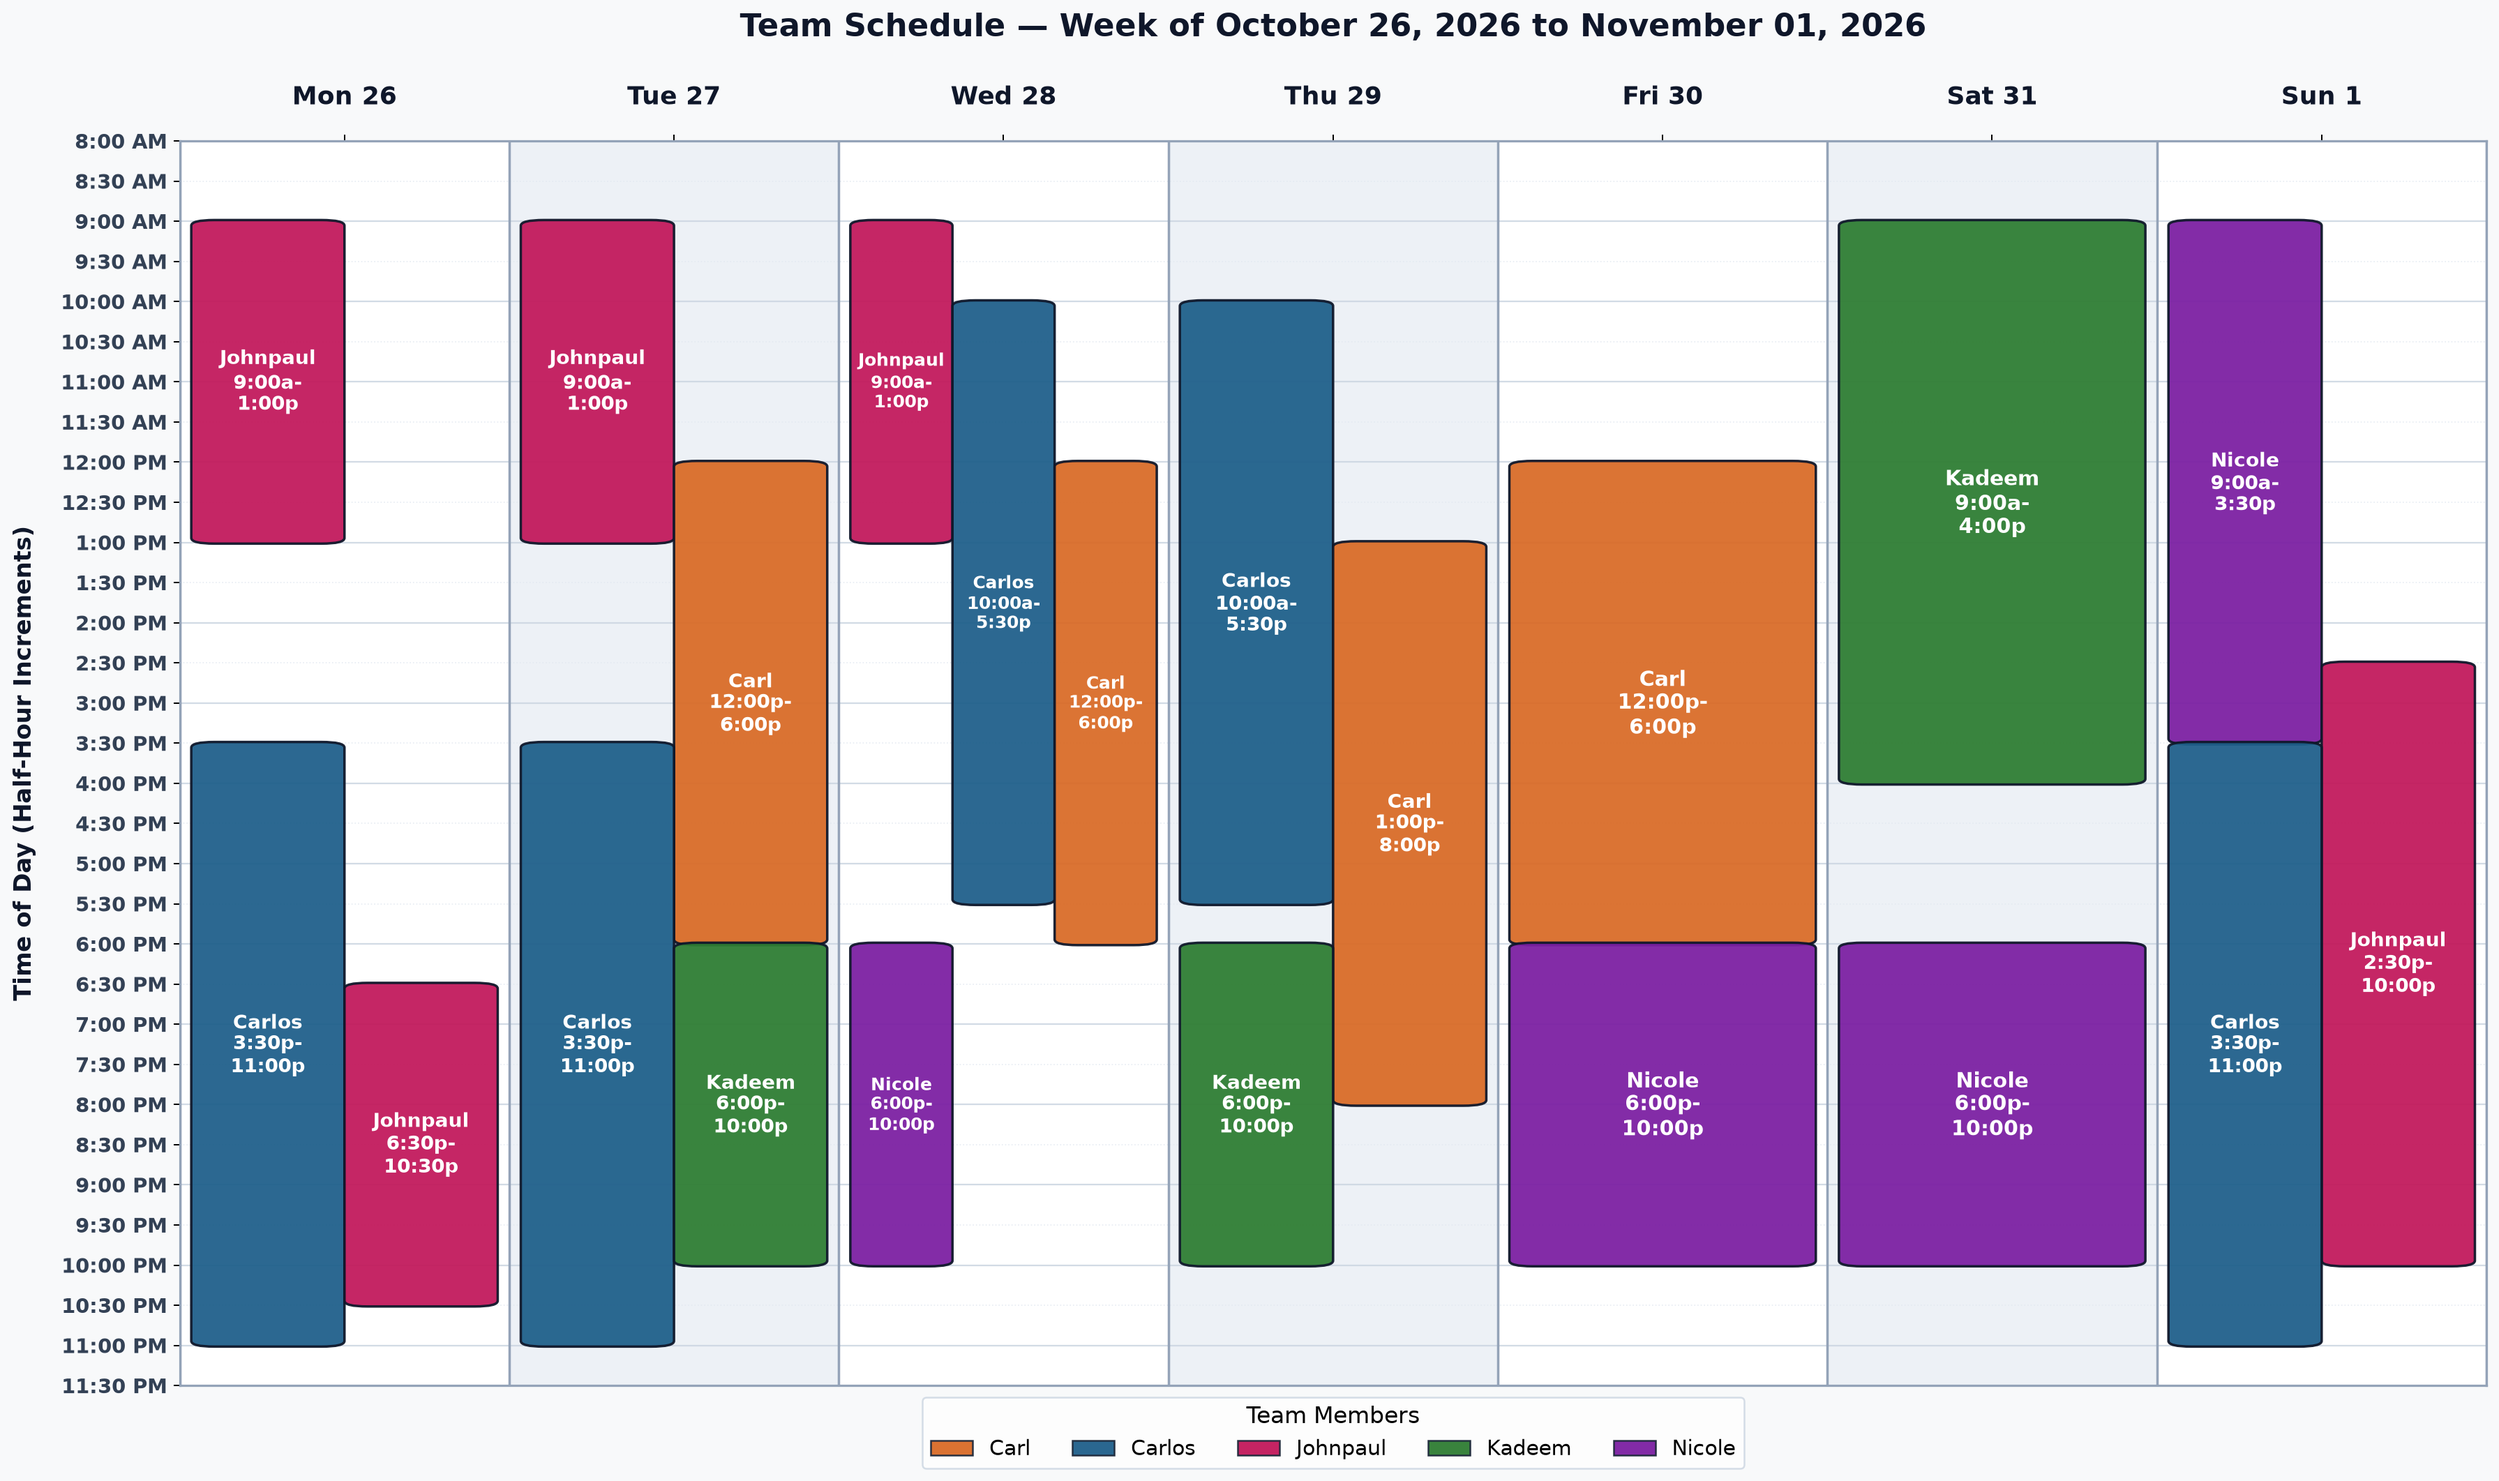
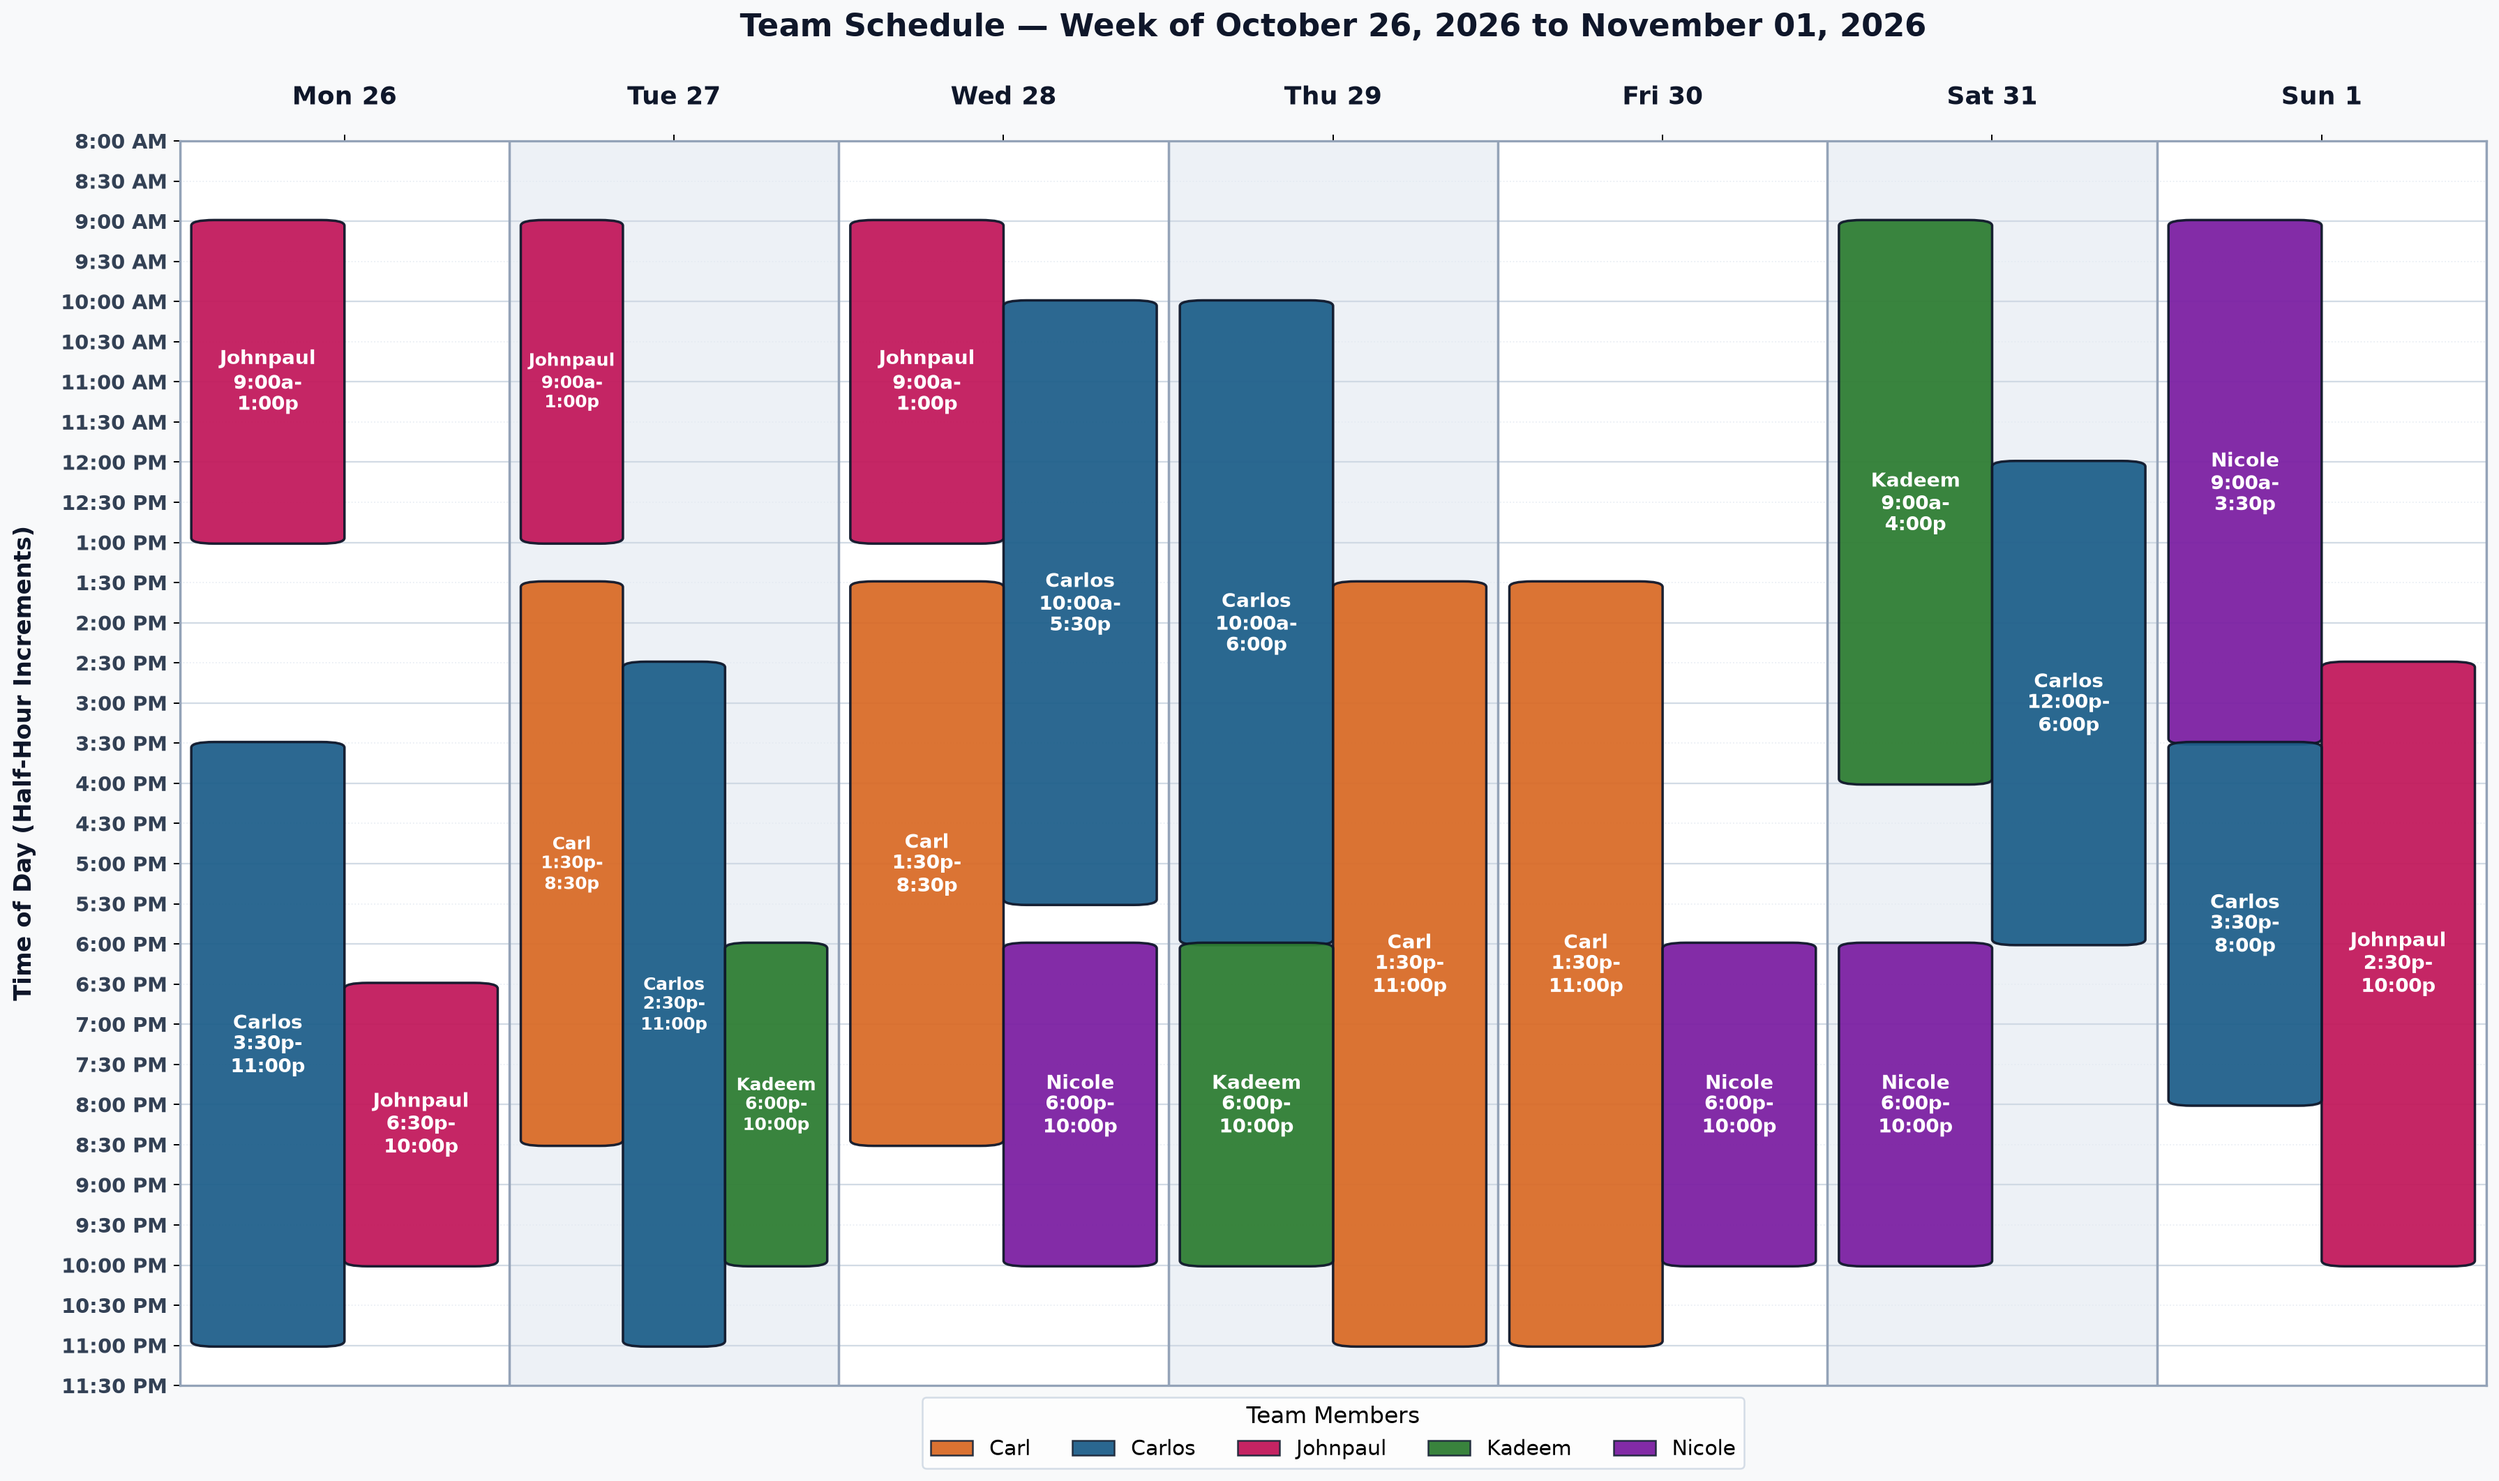
Update staff schedule for week of Oct 26 - Nov 1 (Oct 27 1:53 AM print)

Changed region(s): [[0.124, 0.1244, 0.9296, 0.9326], [0.5578, 0.5285, 0.5888, 0.5907]]

diff --git a/schedule.html b/schedule.html
@@ -540,7 +540,7 @@
 
   <script>
     const SCHEDULE_DATA = {
-  "current_week": "2026-10-19",
+  "current_week": "2026-10-26",
   "weeks": {
     "2026-10-19": {
       "week_id": "2026-10-19",
@@ -763,16 +763,16 @@
         "Jordan": "#D97706",
         "Chris": "#059669"
       },
-      "total_hours": 119.5,
-      "total_shifts": 21,
+      "total_hours": 131.5,
+      "total_shifts": 22,
       "stats": {
         "Carlos": {
-          "hours": 37.5,
-          "shifts": 5,
+          "hours": 42.0,
+          "shifts": 6,
           "color": "#1E5F8A"
         },
         "Carl": {
-          "hours": 25.0,
+          "hours": 33.0,
           "shifts": 4,
           "color": "#D96B27"
         },
@@ -787,7 +787,7 @@
           "color": "#7B1FA2"
         },
         "Johnpaul": {
-          "hours": 23.5,
+          "hours": 23.0,
           "shifts": 5,
           "color": "#C2185B"
         }
@@ -803,9 +803,9 @@
         {
           "name": "Carlos",
           "day": 1,
-          "start": 15.5,
+          "start": 14.5,
           "end": 23.0,
-          "label": "3:30 PM - 11:00 PM"
+          "label": "2:30 PM - 11:00 PM"
         },
         {
           "name": "Carlos",
@@ -818,43 +818,50 @@
           "name": "Carlos",
           "day": 3,
           "start": 10.0,
-          "end": 17.5,
-          "label": "10:00 AM - 5:30 PM"
+          "end": 18.0,
+          "label": "10:00 AM - 6:00 PM"
+        },
+        {
+          "name": "Carlos",
+          "day": 5,
+          "start": 12.0,
+          "end": 18.0,
+          "label": "12:00 PM - 6:00 PM"
         },
         {
           "name": "Carlos",
           "day": 6,
           "start": 15.5,
-          "end": 23.0,
-          "label": "3:30 PM - 11:00 PM"
+          "end": 20.0,
+          "label": "3:30 PM - 8:00 PM"
         },
         {
           "name": "Carl",
           "day": 1,
-          "start": 12.0,
-          "end": 18.0,
-          "label": "12:00 PM - 6:00 PM"
+          "start": 13.5,
+          "end": 20.5,
+          "label": "1:30 PM - 8:30 PM"
         },
         {
           "name": "Carl",
           "day": 2,
-          "start": 12.0,
-          "end": 18.0,
-          "label": "12:00 PM - 6:00 PM"
+          "start": 13.5,
+          "end": 20.5,
+          "label": "1:30 PM - 8:30 PM"
         },
         {
           "name": "Carl",
           "day": 3,
-          "start": 13.0,
-          "end": 20.0,
-          "label": "1:00 PM - 8:00 PM"
+          "start": 13.5,
+          "end": 23.0,
+          "label": "1:30 PM - 11:00 PM"
         },
         {
           "name": "Carl",
           "day": 4,
-          "start": 12.0,
-          "end": 18.0,
-          "label": "12:00 PM - 6:00 PM"
+          "start": 13.5,
+          "end": 23.0,
+          "label": "1:30 PM - 11:00 PM"
         },
         {
           "name": "Kadeem",
@@ -916,8 +923,8 @@
           "name": "Johnpaul",
           "day": 0,
           "start": 18.5,
-          "end": 22.5,
-          "label": "6:30 PM - 10:30 PM"
+          "end": 22.0,
+          "label": "6:30 PM - 10:00 PM"
         },
         {
           "name": "Johnpaul",
